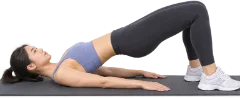
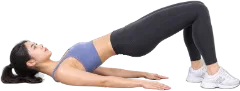
힙 브릿지 사진 교체
매트가 함께 찍힌 기존 사진을 인물만 있는 것으로 교체.
나머지 두 동작과 스타일이 통일됨.

- 투명 배경 유지, 알파 기준 크롭 (960x365)
- app.js 의 이미지 크기값 갱신

Claude-Session: https://claude.ai/code/session_01VAsmy4W6XrH66spYPZrFX9

diff --git a/app.js b/app.js
@@ -43,7 +43,7 @@ function clamp(key, v){
 /* ---------- exercise photos ---------- */
 const FIG = {
   wallSit:   { src:'img/wall-sit.webp',       w:534, h:960, sm:'img/wall-sit-sm.webp',       smW:133, smH:240 },
-  hipBridge: { src:'img/hip-bridge.webp',     w:960, h:393, sm:'img/hip-bridge-sm.webp',     smW:240, smH:98  },
+  hipBridge: { src:'img/hip-bridge.webp',     w:960, h:365, sm:'img/hip-bridge-sm.webp',     smW:240, smH:91  },
   legRaise:  { src:'img/side-leg-raise.webp', w:960, h:361, sm:'img/side-leg-raise-sm.webp', smW:240, smH:90  },
 };
 // the leg-raise photo shows the left leg lifted; mirror it for the right side

diff --git a/README.md b/README.md
@@ -89,7 +89,7 @@ python3 -m http.server 8000
 index.html            화면 구조 (홈 / 운동 / 완료 / 설정 시트)
 style.css             전체 스타일, 한 화면 고정 레이아웃
 app.js                루틴 생성, 타이머 엔진, 음성·벨, 설정 저장
-img/*.webp            동작 사진, 투명 배경 (큰 것 + 목록용 작은 것) 전체 178KB
+img/*.webp            동작 사진, 투명 배경 (큰 것 + 목록용 작은 것) 전체 176KB
 manifest.webmanifest  홈 화면 추가용 PWA 설정
 icon.svg, icon-*.png  아이콘
 ```
